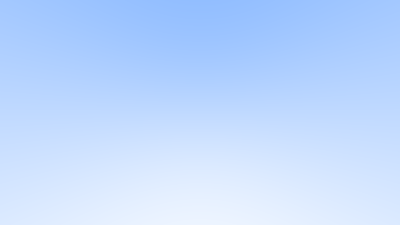
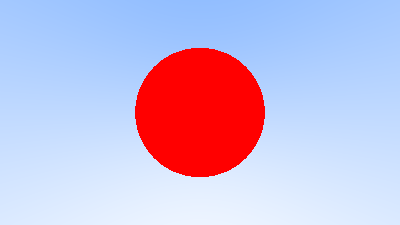
Sphere intersection

Changed region(s): [[0.33, 0.1867, 0.66, 0.8089]]

diff --git a/src/main.rs b/src/main.rs
@@ -32,8 +32,8 @@ impl Vec3{
         self.squared_length().sqrt()
     }
 
-    fn dot(&self, v : &Vec3) -> Vec3 {
-        Vec3 { x: self.x * v.x, y: self.y * v.y, z: self.z * v.z }
+    fn dot(&self, v : &Vec3) -> f64 {
+        self.x * v.x + self.y * v.y + self.z * v.z 
     }
 
     fn cross(&self, v : &Vec3) -> Vec3 {
@@ -180,10 +180,23 @@ impl Ray{
     }
 }
 
-fn ray_color(r : &Ray) -> Vec3{
+fn ray_color(r: &Ray) -> Vec3{
+    if hit_sphere(&Vec3::new(0.0,0.0,-1.0), 0.5, r){
+        return Vec3::new(1.0, 0.0, 0.0);
+    }
+
     let unit_dir = r.direction.unit_vector();
     let t = 0.5 * (unit_dir.y + 1.0);
-    (t) * Vec3::new(1.0, 1.0, 1.0) + (1.0 - t)  * Vec3::new(0.5, 0.7, 1.0)
+    (1.0 - t) * Vec3::new(1.0, 1.0, 1.0) + t * Vec3::new(0.5, 0.7, 1.0)
+}
+
+fn hit_sphere(center: &Vec3, radius: f64, ray: &Ray ) -> bool{
+    let oc = ray.origin - *center;
+    let a = ray.direction.dot(&ray.direction);
+    let b = 2.0 * oc.dot(&ray.direction);
+    let c = oc.dot(&oc) -  radius * radius;
+    let discriminant = b * b - 4.0 * a * c;
+    discriminant > 0.0
 }
 
 fn main() {
@@ -221,7 +234,8 @@ fn main() {
     
     // Iterate over all pixels in the image.
     for (x, y, pixel) in image.enumerate_pixels_mut() {
-
+        let y = (HEIGHT - 1) - y; 
+        
         // Do something with pixel.
         let u = (x as f64) / (WIDTH as f64 - 1.0);
         let v = (y as f64) / (HEIGHT as f64 - 1.0);
